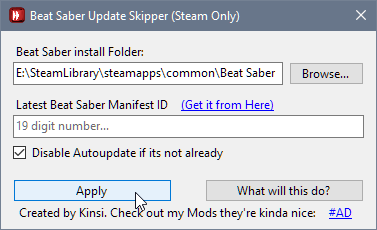
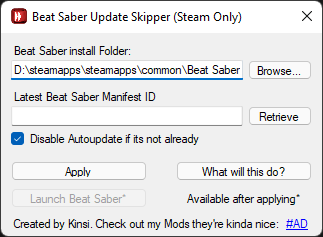
Add Beat Saber launch Button

diff --git a/Form1.Designer.cs b/Form1.Designer.cs
@@ -24,151 +24,175 @@ namespace BeatSaberNoUpdate {
 		///  the contents of this method with the code editor.
 		/// </summary>
 		private void InitializeComponent() {
-			System.ComponentModel.ComponentResourceManager resources = new System.ComponentModel.ComponentResourceManager(typeof(Form1));
-			this.installFolderLabel = new System.Windows.Forms.Label();
-			this.browseButton = new System.Windows.Forms.Button();
-			this.textbox_path = new System.Windows.Forms.TextBox();
-			this.manifestIdLabel = new System.Windows.Forms.Label();
-			this.textbox_manifest = new System.Windows.Forms.TextBox();
-			this.applyButton = new System.Windows.Forms.Button();
-			this.label3 = new System.Windows.Forms.Label();
-			this.linkLabel2 = new System.Windows.Forms.LinkLabel();
-			this.aboutButton = new System.Windows.Forms.Button();
-			this.checkBox1 = new System.Windows.Forms.CheckBox();
-			this.getManifestButton = new System.Windows.Forms.Button();
-			this.SuspendLayout();
-			// 
-			// installFolderLabel
-			// 
-			this.installFolderLabel.AutoSize = true;
-			this.installFolderLabel.Location = new System.Drawing.Point(10, 11);
-			this.installFolderLabel.Name = "installFolderLabel";
-			this.installFolderLabel.Size = new System.Drawing.Size(124, 13);
-			this.installFolderLabel.TabIndex = 0;
-			this.installFolderLabel.Text = "Beat Saber install Folder:";
-			// 
-			// browseButton
-			// 
-			this.browseButton.Location = new System.Drawing.Point(247, 27);
-			this.browseButton.Name = "browseButton";
-			this.browseButton.Size = new System.Drawing.Size(64, 20);
-			this.browseButton.TabIndex = 4;
-			this.browseButton.Text = "Browse...";
-			this.browseButton.UseVisualStyleBackColor = true;
-			this.browseButton.Click += new System.EventHandler(this.browseButton_Click);
-			// 
-			// textbox_path
-			// 
-			this.textbox_path.Location = new System.Drawing.Point(10, 27);
-			this.textbox_path.Name = "textbox_path";
-			this.textbox_path.Size = new System.Drawing.Size(232, 20);
-			this.textbox_path.TabIndex = 3;
-			// 
-			// manifestIdLabel
-			// 
-			this.manifestIdLabel.AutoSize = true;
-			this.manifestIdLabel.Location = new System.Drawing.Point(10, 57);
-			this.manifestIdLabel.Name = "manifestIdLabel";
-			this.manifestIdLabel.Size = new System.Drawing.Size(149, 13);
-			this.manifestIdLabel.TabIndex = 5;
-			this.manifestIdLabel.Text = "Latest Beat Saber Manifest ID";
-			// 
-			// textbox_manifest
-			// 
-			this.textbox_manifest.Location = new System.Drawing.Point(10, 73);
-			this.textbox_manifest.MaxLength = 19;
-			this.textbox_manifest.Name = "textbox_manifest";
-			this.textbox_manifest.Size = new System.Drawing.Size(232, 20);
-			this.textbox_manifest.TabIndex = 7;
-			// 
-			// applyButton
-			// 
-			this.applyButton.Location = new System.Drawing.Point(10, 128);
-			this.applyButton.Name = "applyButton";
-			this.applyButton.Size = new System.Drawing.Size(136, 20);
-			this.applyButton.TabIndex = 8;
-			this.applyButton.Text = "Apply";
-			this.applyButton.UseVisualStyleBackColor = true;
-			this.applyButton.Click += new System.EventHandler(this.applyButton_Click);
-			// 
-			// label3
-			// 
-			this.label3.AutoSize = true;
-			this.label3.Location = new System.Drawing.Point(10, 151);
-			this.label3.Name = "label3";
-			this.label3.Size = new System.Drawing.Size(272, 13);
-			this.label3.TabIndex = 9;
-			this.label3.Text = "Created by Kinsi. Check out my Mods they\'re kinda nice:";
-			// 
-			// linkLabel2
-			// 
-			this.linkLabel2.AutoSize = true;
-			this.linkLabel2.Location = new System.Drawing.Point(282, 151);
-			this.linkLabel2.Name = "linkLabel2";
-			this.linkLabel2.Size = new System.Drawing.Size(29, 13);
-			this.linkLabel2.TabIndex = 10;
-			this.linkLabel2.TabStop = true;
-			this.linkLabel2.Text = "#AD";
-			this.linkLabel2.LinkClicked += new System.Windows.Forms.LinkLabelLinkClickedEventHandler(this.linkLabel2_LinkClicked);
-			// 
-			// aboutButton
-			// 
-			this.aboutButton.Location = new System.Drawing.Point(175, 128);
-			this.aboutButton.Name = "aboutButton";
-			this.aboutButton.Size = new System.Drawing.Size(136, 20);
-			this.aboutButton.TabIndex = 11;
-			this.aboutButton.Text = "What will this do?";
-			this.aboutButton.UseVisualStyleBackColor = true;
-			this.aboutButton.Click += new System.EventHandler(this.aboutButton_Click);
-			// 
-			// checkBox1
-			// 
-			this.checkBox1.AutoSize = true;
-			this.checkBox1.Checked = true;
-			this.checkBox1.CheckState = System.Windows.Forms.CheckState.Checked;
-			this.checkBox1.Location = new System.Drawing.Point(10, 98);
-			this.checkBox1.Name = "checkBox1";
-			this.checkBox1.Size = new System.Drawing.Size(195, 17);
-			this.checkBox1.TabIndex = 12;
-			this.checkBox1.Text = "Disable Autoupdate if its not already";
-			this.checkBox1.UseVisualStyleBackColor = true;
-			// 
-			// getManifestButton
-			// 
-			this.getManifestButton.Location = new System.Drawing.Point(247, 73);
-			this.getManifestButton.Name = "getManifestButton";
-			this.getManifestButton.Size = new System.Drawing.Size(64, 20);
-			this.getManifestButton.TabIndex = 13;
-			this.getManifestButton.Text = "Retrieve";
-			this.getManifestButton.UseVisualStyleBackColor = true;
-			this.getManifestButton.Click += new System.EventHandler(this.getManifestButton_Click);
-			// 
-			// Form1
-			// 
-			this.AutoScaleDimensions = new System.Drawing.SizeF(6F, 13F);
-			this.AutoScaleMode = System.Windows.Forms.AutoScaleMode.Font;
-			this.ClientSize = new System.Drawing.Size(321, 172);
-			this.Controls.Add(this.getManifestButton);
-			this.Controls.Add(this.checkBox1);
-			this.Controls.Add(this.aboutButton);
-			this.Controls.Add(this.linkLabel2);
-			this.Controls.Add(this.label3);
-			this.Controls.Add(this.applyButton);
-			this.Controls.Add(this.textbox_manifest);
-			this.Controls.Add(this.manifestIdLabel);
-			this.Controls.Add(this.browseButton);
-			this.Controls.Add(this.textbox_path);
-			this.Controls.Add(this.installFolderLabel);
-			this.FormBorderStyle = System.Windows.Forms.FormBorderStyle.FixedSingle;
-			this.Icon = ((System.Drawing.Icon)(resources.GetObject("$this.Icon")));
-			this.MaximizeBox = false;
-			this.MinimizeBox = false;
-			this.Name = "Form1";
-			this.StartPosition = System.Windows.Forms.FormStartPosition.CenterScreen;
-			this.Text = "Beat Saber Update Skipper (Steam Only)";
-			this.Load += new System.EventHandler(this.Form1_Load);
-			this.ResumeLayout(false);
-			this.PerformLayout();
+            System.ComponentModel.ComponentResourceManager resources = new System.ComponentModel.ComponentResourceManager(typeof(Form1));
+            this.installFolderLabel = new System.Windows.Forms.Label();
+            this.browseButton = new System.Windows.Forms.Button();
+            this.textbox_path = new System.Windows.Forms.TextBox();
+            this.manifestIdLabel = new System.Windows.Forms.Label();
+            this.textbox_manifest = new System.Windows.Forms.TextBox();
+            this.applyButton = new System.Windows.Forms.Button();
+            this.label3 = new System.Windows.Forms.Label();
+            this.linkLabel2 = new System.Windows.Forms.LinkLabel();
+            this.aboutButton = new System.Windows.Forms.Button();
+            this.checkBox1 = new System.Windows.Forms.CheckBox();
+            this.getManifestButton = new System.Windows.Forms.Button();
+            this.launchButton = new System.Windows.Forms.Button();
+            this.launchLabel = new System.Windows.Forms.Label();
+            this.SuspendLayout();
+            // 
+            // installFolderLabel
+            // 
+            this.installFolderLabel.AutoSize = true;
+            this.installFolderLabel.Location = new System.Drawing.Point(10, 11);
+            this.installFolderLabel.Name = "installFolderLabel";
+            this.installFolderLabel.Size = new System.Drawing.Size(124, 13);
+            this.installFolderLabel.TabIndex = 0;
+            this.installFolderLabel.Text = "Beat Saber install Folder:";
+            // 
+            // browseButton
+            // 
+            this.browseButton.Location = new System.Drawing.Point(247, 27);
+            this.browseButton.Name = "browseButton";
+            this.browseButton.Size = new System.Drawing.Size(64, 20);
+            this.browseButton.TabIndex = 4;
+            this.browseButton.Text = "Browse...";
+            this.browseButton.UseVisualStyleBackColor = true;
+            this.browseButton.Click += new System.EventHandler(this.browseButton_Click);
+            // 
+            // textbox_path
+            // 
+            this.textbox_path.Location = new System.Drawing.Point(10, 27);
+            this.textbox_path.Name = "textbox_path";
+            this.textbox_path.Size = new System.Drawing.Size(232, 20);
+            this.textbox_path.TabIndex = 3;
+            // 
+            // manifestIdLabel
+            // 
+            this.manifestIdLabel.AutoSize = true;
+            this.manifestIdLabel.Location = new System.Drawing.Point(10, 57);
+            this.manifestIdLabel.Name = "manifestIdLabel";
+            this.manifestIdLabel.Size = new System.Drawing.Size(149, 13);
+            this.manifestIdLabel.TabIndex = 5;
+            this.manifestIdLabel.Text = "Latest Beat Saber Manifest ID";
+            // 
+            // textbox_manifest
+            // 
+            this.textbox_manifest.Location = new System.Drawing.Point(10, 73);
+            this.textbox_manifest.MaxLength = 19;
+            this.textbox_manifest.Name = "textbox_manifest";
+            this.textbox_manifest.Size = new System.Drawing.Size(232, 20);
+            this.textbox_manifest.TabIndex = 7;
+            // 
+            // applyButton
+            // 
+            this.applyButton.Location = new System.Drawing.Point(10, 128);
+            this.applyButton.Name = "applyButton";
+            this.applyButton.Size = new System.Drawing.Size(136, 20);
+            this.applyButton.TabIndex = 8;
+            this.applyButton.Text = "Apply";
+            this.applyButton.UseVisualStyleBackColor = true;
+            this.applyButton.Click += new System.EventHandler(this.applyButton_Click);
+            // 
+            // label3
+            // 
+            this.label3.AutoSize = true;
+            this.label3.Location = new System.Drawing.Point(10, 184);
+            this.label3.Name = "label3";
+            this.label3.Size = new System.Drawing.Size(272, 13);
+            this.label3.TabIndex = 9;
+            this.label3.Text = "Created by Kinsi. Check out my Mods they\'re kinda nice:";
+            // 
+            // linkLabel2
+            // 
+            this.linkLabel2.AutoSize = true;
+            this.linkLabel2.Location = new System.Drawing.Point(282, 184);
+            this.linkLabel2.Name = "linkLabel2";
+            this.linkLabel2.Size = new System.Drawing.Size(29, 13);
+            this.linkLabel2.TabIndex = 10;
+            this.linkLabel2.TabStop = true;
+            this.linkLabel2.Text = "#AD";
+            this.linkLabel2.LinkClicked += new System.Windows.Forms.LinkLabelLinkClickedEventHandler(this.linkLabel2_LinkClicked);
+            // 
+            // aboutButton
+            // 
+            this.aboutButton.Location = new System.Drawing.Point(175, 128);
+            this.aboutButton.Name = "aboutButton";
+            this.aboutButton.Size = new System.Drawing.Size(136, 20);
+            this.aboutButton.TabIndex = 11;
+            this.aboutButton.Text = "What will this do?";
+            this.aboutButton.UseVisualStyleBackColor = true;
+            this.aboutButton.Click += new System.EventHandler(this.aboutButton_Click);
+            // 
+            // checkBox1
+            // 
+            this.checkBox1.AutoSize = true;
+            this.checkBox1.Checked = true;
+            this.checkBox1.CheckState = System.Windows.Forms.CheckState.Checked;
+            this.checkBox1.Location = new System.Drawing.Point(10, 98);
+            this.checkBox1.Name = "checkBox1";
+            this.checkBox1.Size = new System.Drawing.Size(195, 17);
+            this.checkBox1.TabIndex = 12;
+            this.checkBox1.Text = "Disable Autoupdate if its not already";
+            this.checkBox1.UseVisualStyleBackColor = true;
+            // 
+            // getManifestButton
+            // 
+            this.getManifestButton.Location = new System.Drawing.Point(247, 73);
+            this.getManifestButton.Name = "getManifestButton";
+            this.getManifestButton.Size = new System.Drawing.Size(64, 20);
+            this.getManifestButton.TabIndex = 13;
+            this.getManifestButton.Text = "Retrieve";
+            this.getManifestButton.UseVisualStyleBackColor = true;
+            this.getManifestButton.Click += new System.EventHandler(this.getManifestButton_Click);
+            // 
+            // launchButton
+            // 
+            this.launchButton.Enabled = false;
+            this.launchButton.Location = new System.Drawing.Point(10, 155);
+            this.launchButton.Name = "launchButton";
+            this.launchButton.Size = new System.Drawing.Size(136, 20);
+            this.launchButton.TabIndex = 14;
+            this.launchButton.Text = "Launch Beat Saber*";
+            this.launchButton.UseVisualStyleBackColor = true;
+            this.launchButton.Click += new System.EventHandler(this.launchButton_Click);
+            // 
+            // launchLabel
+            // 
+            this.launchLabel.AutoSize = true;
+            this.launchLabel.Location = new System.Drawing.Point(183, 159);
+            this.launchLabel.Name = "launchLabel";
+            this.launchLabel.Size = new System.Drawing.Size(120, 13);
+            this.launchLabel.TabIndex = 15;
+            this.launchLabel.Text = "Available after applying*";
+            // 
+            // Form1
+            // 
+            this.AutoScaleDimensions = new System.Drawing.SizeF(6F, 13F);
+            this.AutoScaleMode = System.Windows.Forms.AutoScaleMode.Font;
+            this.ClientSize = new System.Drawing.Size(321, 203);
+            this.Controls.Add(this.launchLabel);
+            this.Controls.Add(this.launchButton);
+            this.Controls.Add(this.getManifestButton);
+            this.Controls.Add(this.checkBox1);
+            this.Controls.Add(this.aboutButton);
+            this.Controls.Add(this.linkLabel2);
+            this.Controls.Add(this.label3);
+            this.Controls.Add(this.applyButton);
+            this.Controls.Add(this.textbox_manifest);
+            this.Controls.Add(this.manifestIdLabel);
+            this.Controls.Add(this.browseButton);
+            this.Controls.Add(this.textbox_path);
+            this.Controls.Add(this.installFolderLabel);
+            this.FormBorderStyle = System.Windows.Forms.FormBorderStyle.Fixed3D;
+            this.Icon = ((System.Drawing.Icon)(resources.GetObject("$this.Icon")));
+            this.MaximizeBox = false;
+            this.MinimizeBox = false;
+            this.Name = "Form1";
+            this.StartPosition = System.Windows.Forms.FormStartPosition.CenterScreen;
+            this.Text = "Beat Saber Update Skipper (Steam Only)";
+            this.Load += new System.EventHandler(this.Form1_Load);
+            this.ResumeLayout(false);
+            this.PerformLayout();
 
 		}
 
@@ -185,6 +209,8 @@ namespace BeatSaberNoUpdate {
 		private System.Windows.Forms.Button aboutButton;
 		private System.Windows.Forms.CheckBox checkBox1;
         private System.Windows.Forms.Button getManifestButton;
+        private System.Windows.Forms.Button launchButton;
+        private System.Windows.Forms.Label launchLabel;
     }
 }
 

diff --git a/Form1.cs b/Form1.cs
@@ -96,8 +96,11 @@ namespace BeatSaberNoUpdate {
 			SetKv(ref acf, "StateFlags", "4");
 			SetKv(ref acf, "UpdateResult", "0");
 
+			// Enable launchButton after applying Manifest Update
+			launchButton.Enabled = true;
+
 			// Disable Autoupdate if its not already
-			if(checkBox1.Checked)
+			if (checkBox1.Checked)
 				SetKv(ref acf, "AutoUpdateBehavior", "0");
 
 			acf = Regex.Replace(acf, "(\"" + AppInfo.DEPOT_ID + "\".*?\"manifest\"\\s*?)\"[0-9]{19}\"", $"$1\"{textbox_manifest.Text}\"", RegexOptions.Singleline | RegexOptions.IgnoreCase);
@@ -131,6 +134,11 @@ namespace BeatSaberNoUpdate {
 
 			getManifestButton.Enabled = true;
 			getManifestButton.Text = "Retrieve";
+		}
+
+		private void launchButton_Click(object sender, EventArgs e) {
+			LaunchUrl("steam://rungameid/620980");
+			this.Close();
 		}
     }
 }

diff --git a/Program.cs b/Program.cs
@@ -11,7 +11,7 @@ namespace BeatSaberNoUpdate {
 		/// </summary>
 		[STAThread]
 		static void Main() {
-			Debug.Listeners.Add(new TextWriterTraceListener(Console.Out));
+            Debug.Listeners.Add(new TextWriterTraceListener(Console.Out));
 			Debug.AutoFlush = true;
 			Debug.Indent();
 			Debug.WriteLine("Entering Main, starting Form");
